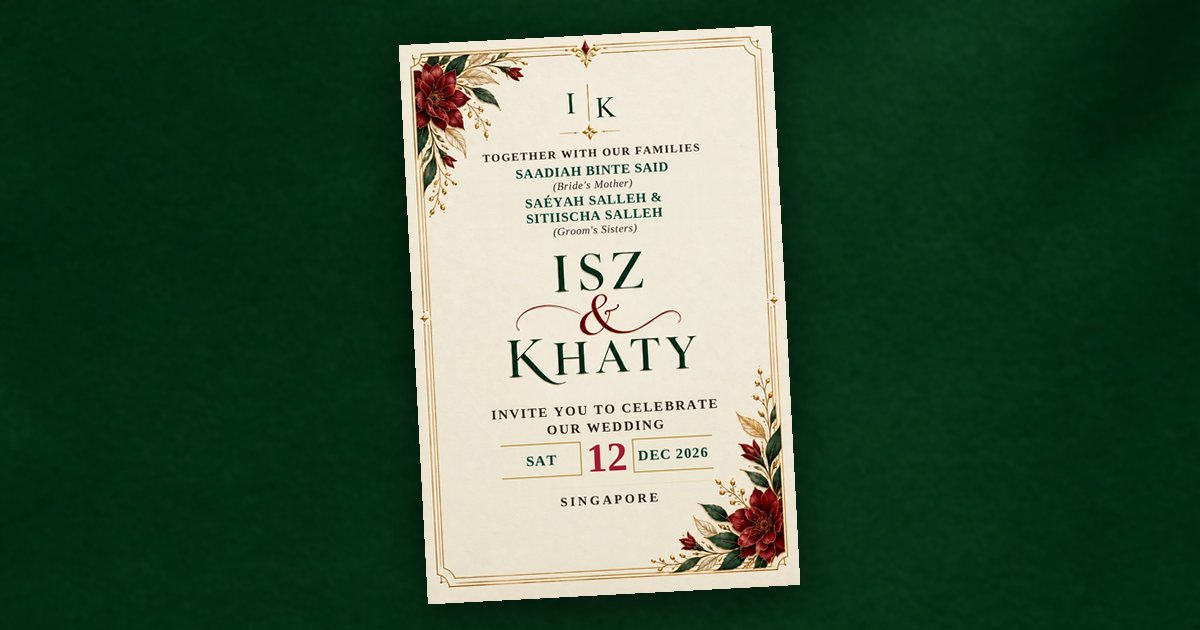
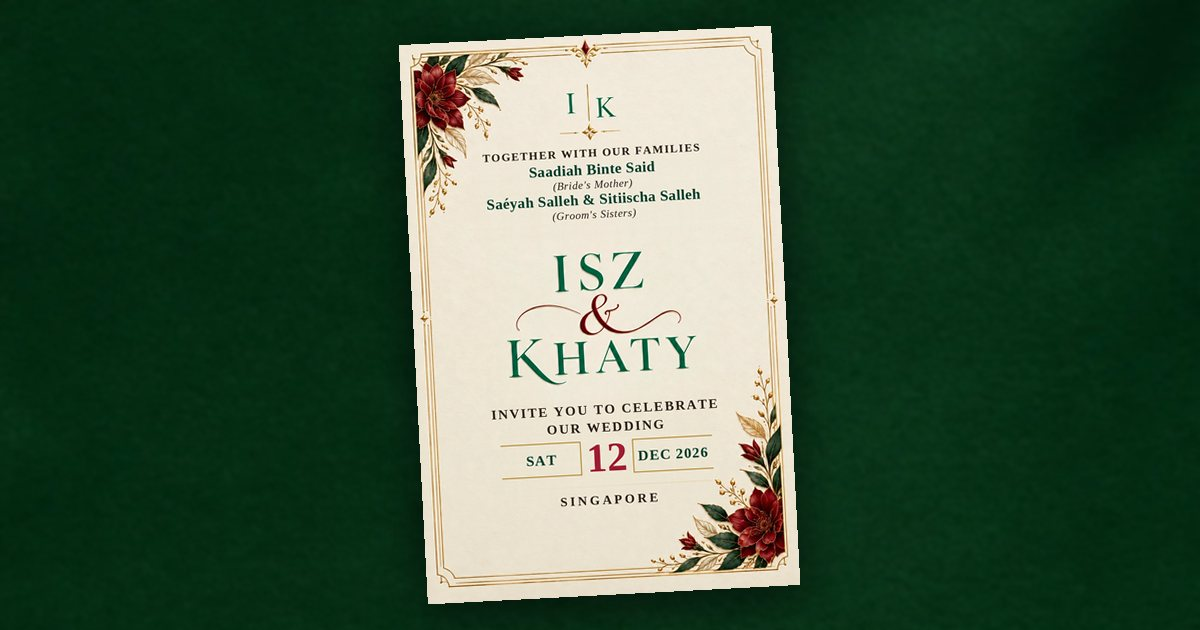
Card: family names in title case; ISZ & Khaty and I|K recoloured to emerald
The card base gets a new file name (invitation-card-base.webp) so phones do not show a cached
older picture. The link-preview image is rebuilt to match.

Claude-Session: https://claude.ai/code/session_01CnhEfaxWDKGB4U8MzmqPVX

diff --git a/index.html b/index.html
@@ -35,7 +35,7 @@
 <link rel="preload" as="image" href="assets/images/ruby-paper.webp" type="image/webp" />
 <link rel="preload" as="image" href="assets/images/wax-seal-monogram.webp" type="image/webp" />
 <link rel="preload" as="image" href="assets/images/emerald-background.webp" type="image/webp" />
-<link rel="preload" as="image" href="assets/images/invitation-card-blank.webp" type="image/webp" />
+<link rel="preload" as="image" href="assets/images/invitation-card-base.webp" type="image/webp" />
 <link rel="stylesheet" href="css/variables.css" />
 <link rel="stylesheet" href="css/base.css" />
 <link rel="stylesheet" href="css/envelope.css" />
@@ -135,7 +135,7 @@
                   <!-- the supplied card artwork (2:3), blank apart from the frame, flowers, I|K and the
                        big names; the rest of the wording is set in type below (filled from config.js).
                        The card's spoken description is built in render.js. -->
-                  <img class="card__art" src="assets/images/invitation-card-blank.webp" alt="" decoding="async" width="1024" height="1536">
+                  <img class="card__art" src="assets/images/invitation-card-base.webp" alt="" decoding="async" width="1024" height="1536">
                   <div class="card__text" aria-hidden="true">
                     <p class="ct ct-eyebrow" id="ct-eyebrow"></p>
                     <div class="ct ct-families" id="ct-families"></div>

diff --git a/css/envelope.css b/css/envelope.css
@@ -505,9 +505,10 @@
 .ct-fam__names {
   display: block;
   font-family: var(--font-display);
-  font-size: calc(var(--u) * 37);
-  line-height: 1.14;
-  letter-spacing: 0.04em;
+  font-size: calc(var(--u) * 41);
+  line-height: 1.16;
+  letter-spacing: 0.02em;
+  text-transform: none;
   color: var(--color-emerald-deep, #08402f);
   text-wrap: balance;
 }

diff --git a/tools/make_card_base.py b/tools/make_card_base.py
@@ -8,7 +8,7 @@ and the big "ISZ & Khaty") and paints plain paper over the family names, the inv
 the date row and the place, which css/envelope.css then sets in real, larger type.
 
 Paper is rebuilt from the cream either side of each blanked area plus the artwork's own fine
-grain (taken from a clean strip), so no patch shows. Writes assets/images/invitation-card-blank.webp.
+grain (taken from a clean strip), so no patch shows. Writes assets/images/invitation-card-base.webp.
 Needs numpy and Pillow.
 """
 import os, sys
@@ -17,7 +17,7 @@ from PIL import Image, ImageFilter
 
 HERE = os.path.dirname(os.path.abspath(__file__))
 SRC = sys.argv[1] if len(sys.argv) > 1 else os.path.join(HERE, "source", "invitation-card-original.webp")
-OUT = os.path.join(HERE, "..", "assets", "images", "invitation-card-blank.webp")
+OUT = os.path.join(HERE, "..", "assets", "images", "invitation-card-base.webp")
 
 im = Image.open(SRC).convert("RGB")
 a = np.asarray(im).astype(np.float32)
@@ -59,6 +59,18 @@ for (x0, y0, x1, y1) in AREAS:
     full = out.copy()
     full[y0:y1, x0:x1] = patch
     out = out * (1 - m[..., None]) + full * m[..., None]
+
+# The big names (and the I|K) are printed in a near-black green. Recolour that ink to the site's
+# emerald, keeping the artwork's own shading, emboss and paper grain: each pixel is shifted by how
+# dark it is. Ruby and gold pixels (the "&" flourish, the gold rule) are left alone.
+EMERALD = np.array([10, 88, 64], np.float32)   # about --color-emerald (#0d5c45)
+INK = np.array([20, 36, 24], np.float32)       # the artwork's own ink
+for (x0, y0, x1, y1) in ((230, 575, 830, 975), (420, 140, 610, 250)):
+    reg = out[y0:y1, x0:x1]
+    lum = reg.mean(axis=2)
+    d = np.clip((230 - lum) / (230 - 25), 0, 1)[..., None]
+    warm = np.clip((reg[..., 0] - reg[..., 1] - 12) / 25, 0, 1)[..., None]   # ruby / gold
+    out[y0:y1, x0:x1] = warm * reg + (1 - warm) * (reg + d * (EMERALD - INK))
 
 res = Image.fromarray(np.clip(out, 0, 255).astype(np.uint8))
 res.save(OUT, quality=90, method=6)

diff --git a/tools/make_og_image.py b/tools/make_og_image.py
@@ -26,7 +26,7 @@ vig = vig.filter(ImageFilter.GaussianBlur(120))
 dark = Image.new("RGB", (W, H), (4, 24, 12))
 bg = Image.composite(bg, dark, vig)
 
-card = Image.open(os.path.join(IMG, "invitation-card-blank.webp")).convert("RGB")
+card = Image.open(os.path.join(IMG, "invitation-card-base.webp")).convert("RGB")
 # The blank card has no small wording, so it is drawn here (the page sets the same wording in
 # real type). Keep these lines in step with js/config.js if a name, date or place changes.
 from PIL import ImageFont
@@ -48,11 +48,10 @@ def _spaced(d, text, cy, size, track, fill, style="Bold", cx=512):
 _d = ImageDraw.Draw(card)
 INK, GREEN, RUBY, GOLD = (47, 36, 27), (8, 64, 47), (160, 28, 51), (184, 145, 63)
 _spaced(_d, "TOGETHER WITH OUR FAMILIES", 322, 31, 3.4, INK)
-_spaced(_d, "SAADIAH BINTE SAID", 370, 37, 1.6, GREEN)
+_spaced(_d, "Saadiah Binte Said", 368, 41, 0.8, GREEN)
 _spaced(_d, "(Bride's Mother)", 410, 30, 1.2, INK, "Italic")
-_spaced(_d, "SAÉYAH SALLEH &", 452, 37, 1.6, GREEN)
-_spaced(_d, "SITIISCHA SALLEH", 494, 37, 1.6, GREEN)
-_spaced(_d, "(Groom's Sisters)", 534, 30, 1.2, INK, "Italic")
+_spaced(_d, "Saéyah Salleh & Sitiischa Salleh", 450, 41, 0.8, GREEN)
+_spaced(_d, "(Groom's Sisters)", 492, 30, 1.2, INK, "Italic")
 _spaced(_d, "INVITE YOU TO CELEBRATE", 1026, 37, 4.5, INK)
 _spaced(_d, "OUR WEDDING", 1075, 37, 4.5, INK)
 for x0, x1 in ((222, 440), (584, 802)):

diff --git a/README.md b/README.md
@@ -151,7 +151,7 @@ transforms:
    portrait works best, with the centre kept clear for the envelope).
 2. **Envelope back** and 3. **lining** — the back carries a gold foil rim; the
    lining inside is a deeper ruby, darker toward the pocket.
-4. **The card** — your supplied card artwork (`assets/images/invitation-card-blank.webp`,
+4. **The card** — your supplied card artwork (`assets/images/invitation-card-base.webp`,
    1024 × 1536), in a slot that clips at the envelope's bottom edge, so it can rise
    freely above the envelope with its foot still tucked in. The picture keeps the
    frame, flowers, the I|K monogram and the big "ISZ & Khaty"; the smaller wording
